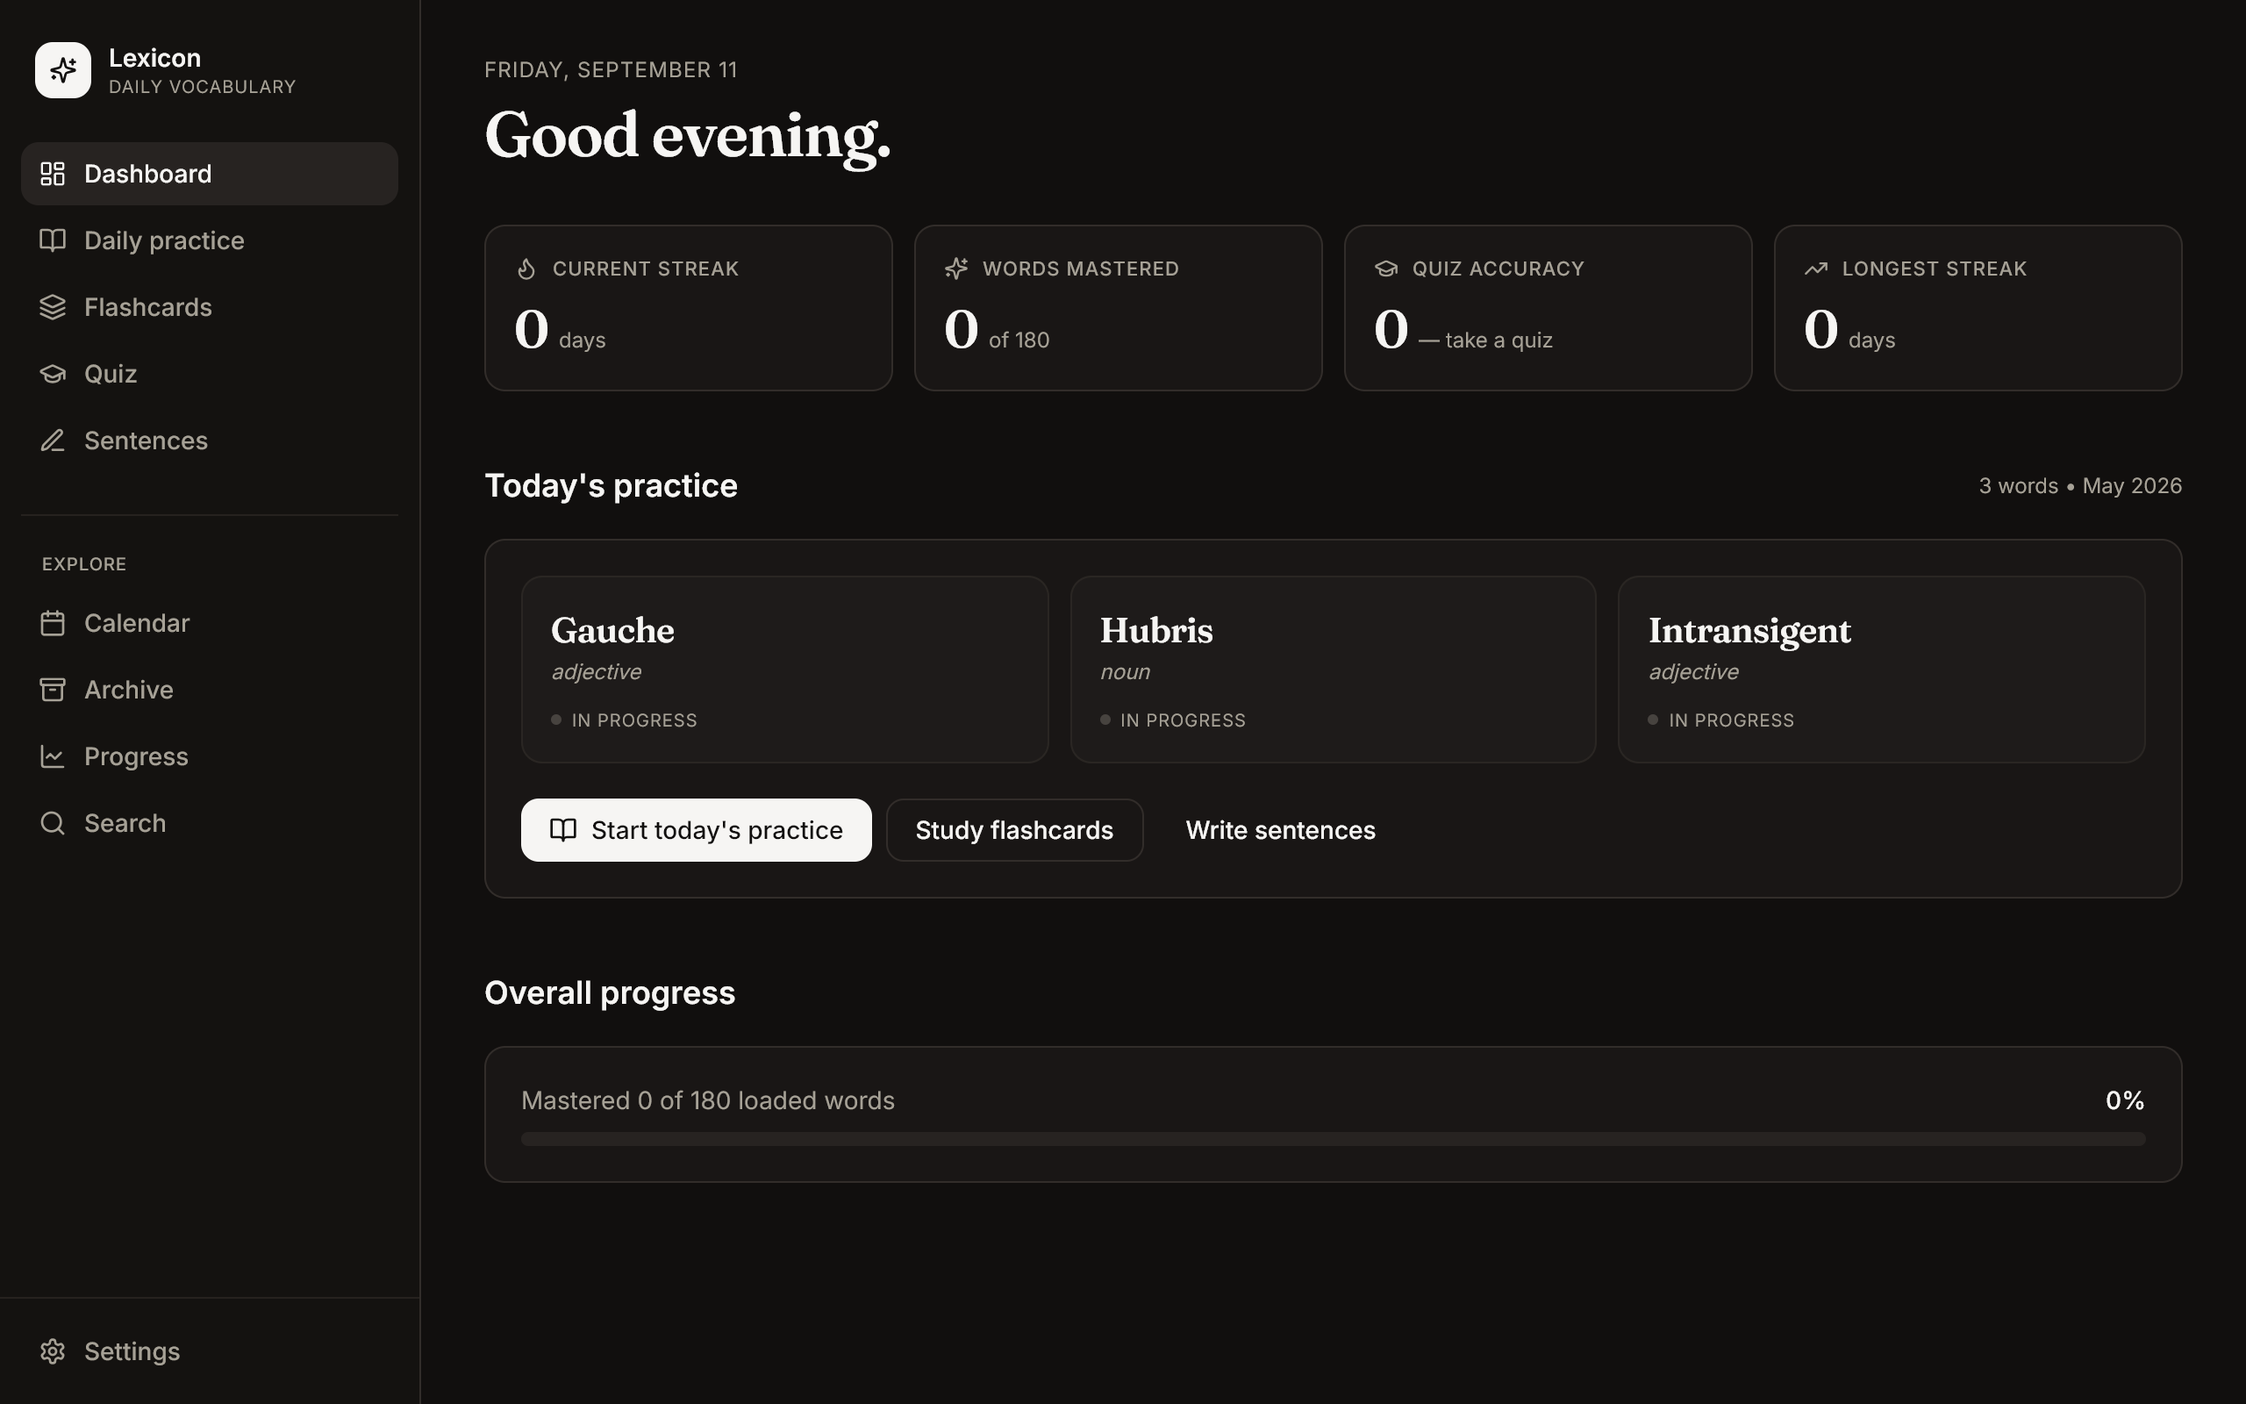
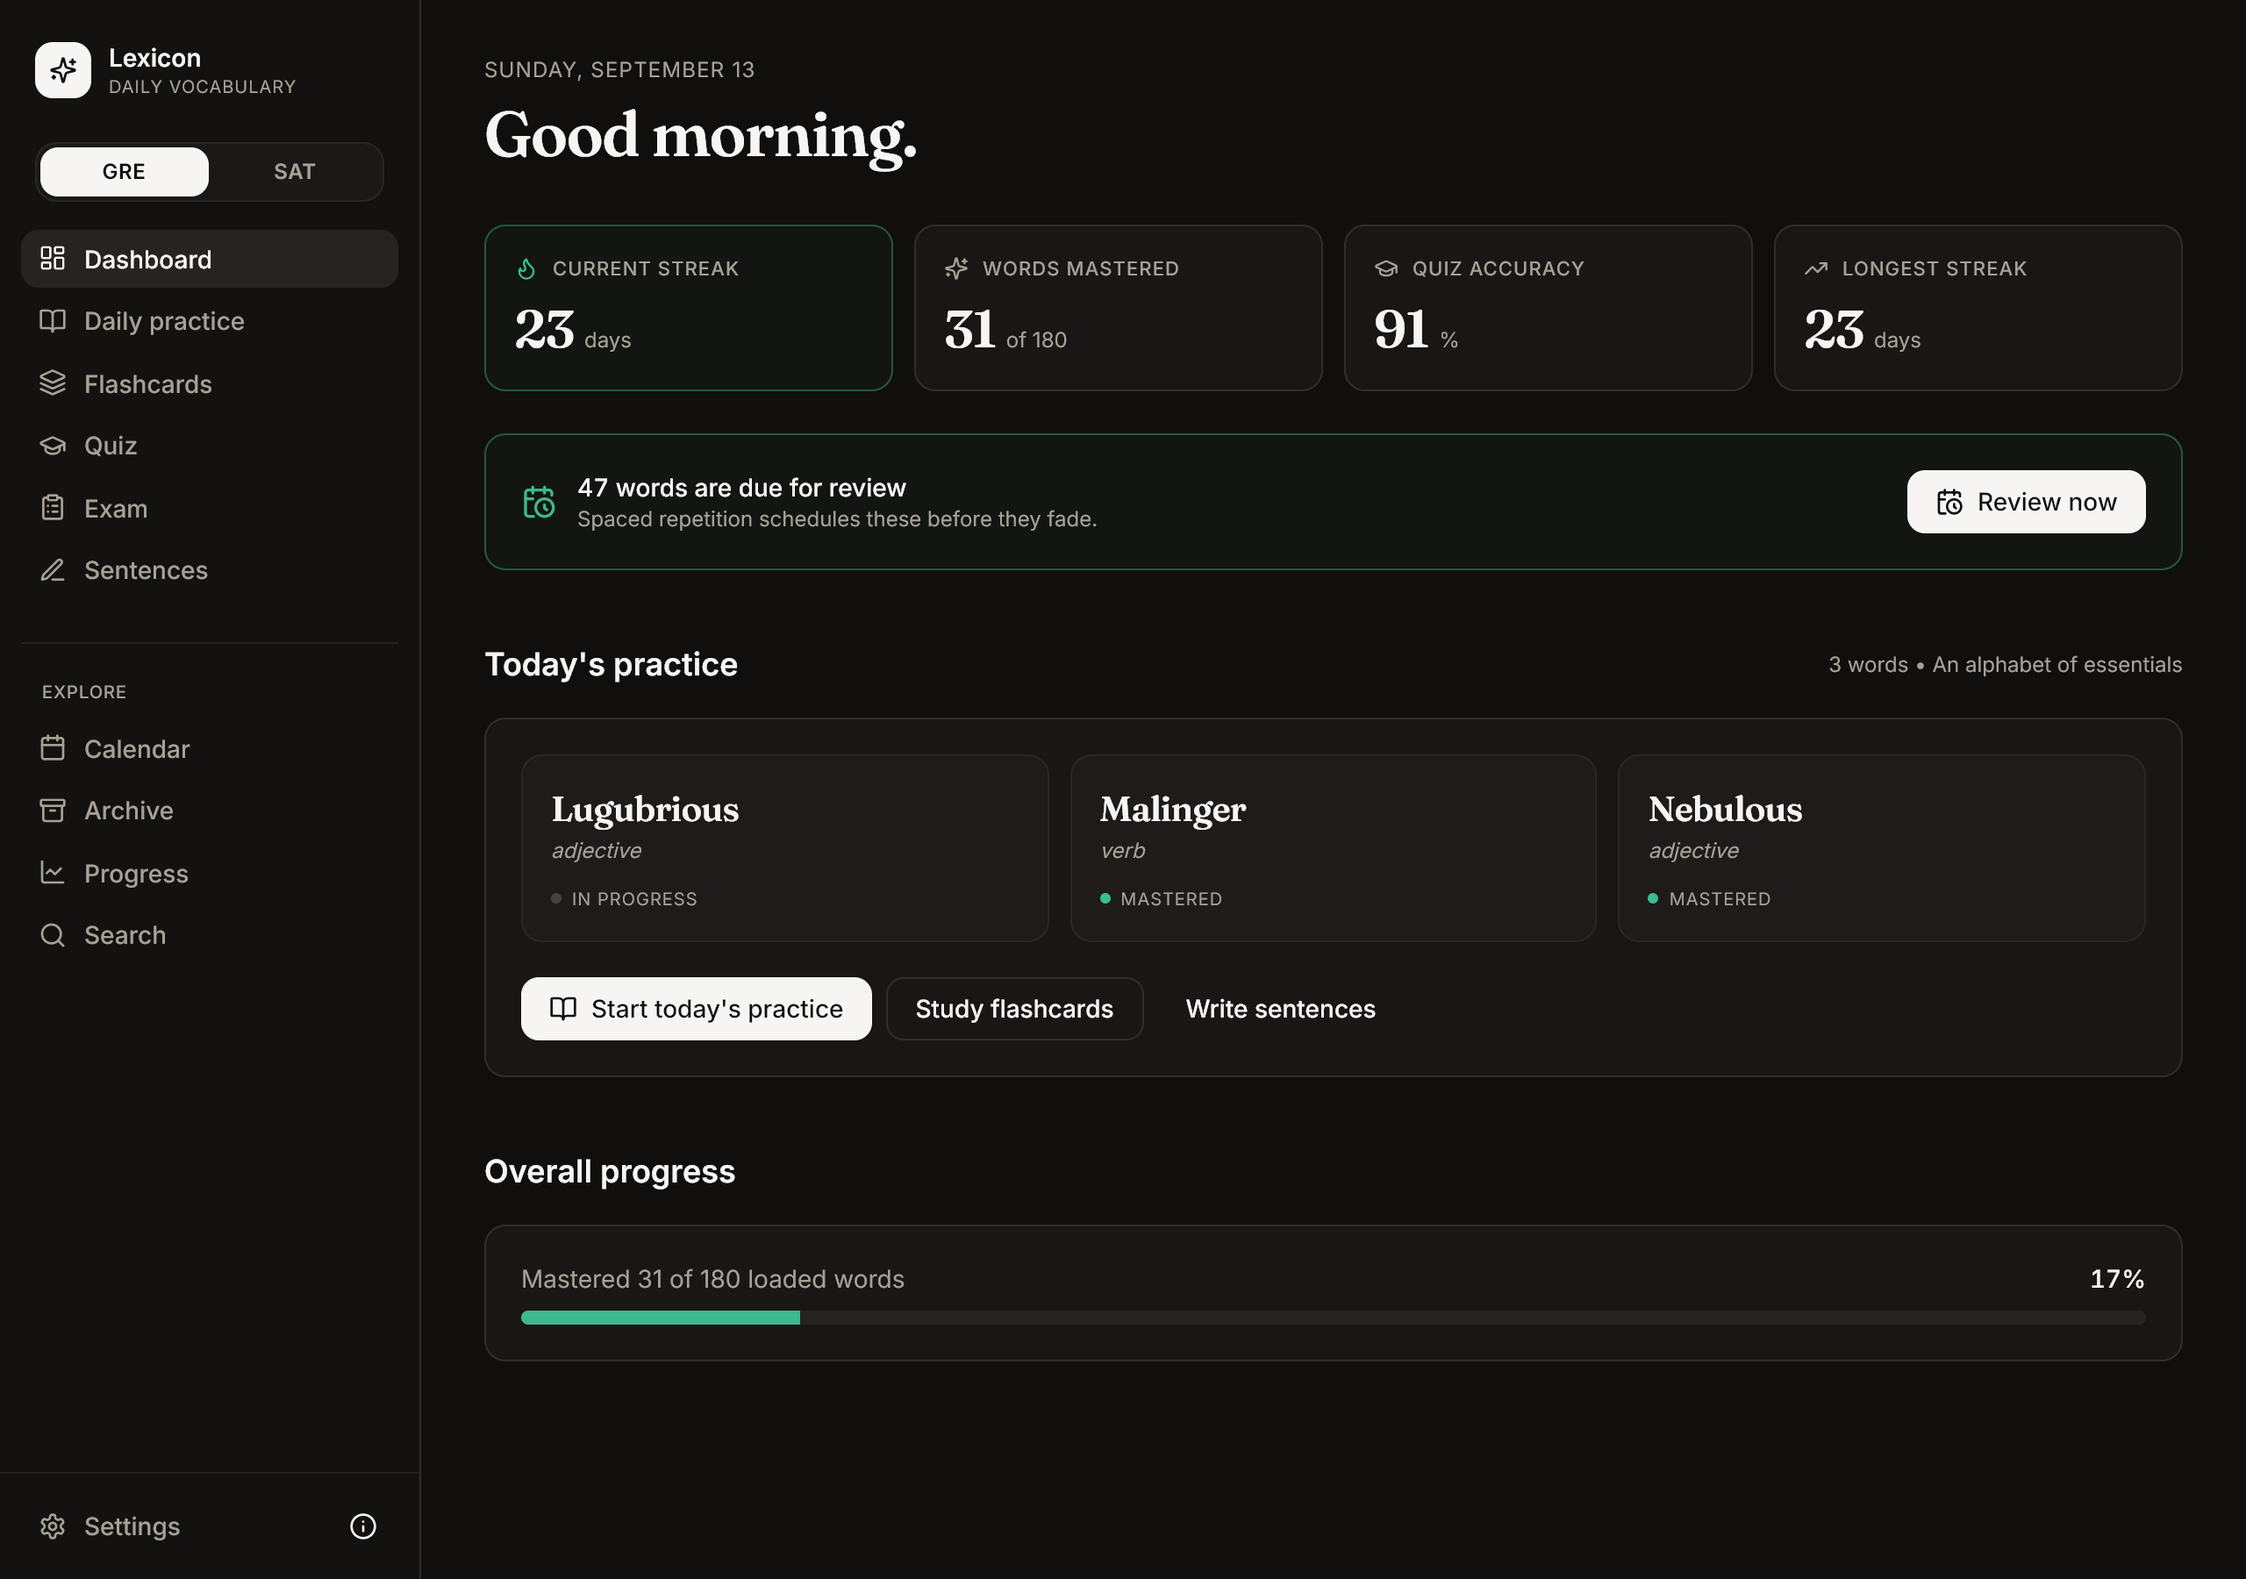
v1.1: changelog, screenshots, handoff
The README's screenshots showed an app that no longer exists — a bottom tab bar
at tablet width, where the rail has been for a phase. `screenshots.mjs` is now
committed alongside the other drivers so the pictures can be regenerated rather
than reshot by hand, and it seeds enough real progress that the dashboard has
something to say instead of four zeros.

Taking that shot found a defect the tablet audit could not: four stat cards
across at 834px is narrow enough that "Words mastered" wraps where its
neighbours do not, so that card grew taller and its number sat below the line
the other three shared. The cards are now equal height with the value pushed to
the bottom, which aligns for any label rather than for the ones that happen to
fit today. An audit checks for overflow and target size; it has no opinion
about whether a row looks level.

CONTINUING.md described a single-track app with dates in its ids. It now leads
with the three rules everything rests on, and carries the lesson that cost the
most here: a green test suite is not enough for anything that persists. The
progress store silently discarding every record passed twenty-three unit tests,
because none of them hydrate a store.

Version bumped to 1.1.0 in package.json, tauri.conf.json and Cargo.toml.

diff --git a/src/pages/Dashboard.tsx b/src/pages/Dashboard.tsx
@@ -336,18 +336,24 @@ function StatCard({
       initial={{ opacity: 0, y: 8 }}
       animate={{ opacity: 1, y: 0 }}
       transition={{ duration: 0.4, delay }}
+      // Full height, and the value pushed to the bottom. Four across on a
+      // tablet is narrow enough that "Words mastered" wraps to two lines while
+      // its neighbours do not, and without this that card grew taller and its
+      // number sat below the other three. Aligning on the bottom works for any
+      // label rather than for the ones that happen to fit today.
+      className="h-full"
     >
       <Card
         className={cn(
-          "transition-colors",
+          "h-full transition-colors",
           highlight && "border-accent/40 bg-accent/[0.03]",
         )}
       >
-        <CardContent className="p-4">
-          <div className="flex items-center gap-2 text-muted-foreground mb-2">
+        <CardContent className="p-4 flex h-full flex-col">
+          <div className="flex items-start gap-2 text-muted-foreground mb-2">
             <Icon
               className={cn(
-                "w-3.5 h-3.5",
+                "w-3.5 h-3.5 shrink-0 mt-px",
                 highlight && "text-accent",
               )}
             />
@@ -355,7 +361,7 @@ function StatCard({
               {label}
             </p>
           </div>
-          <div className="flex items-baseline gap-1.5">
+          <div className="mt-auto flex items-baseline gap-1.5">
             <p className="display-serif text-3xl font-semibold tabular">
               {value}
             </p>

diff --git a/CONTINUING.md b/CONTINUING.md
@@ -6,7 +6,7 @@ Handoff document. If you're picking this project up in a fresh Claude session (F
 
 - **Shipped features** — see [`CHANGELOG.md`](./CHANGELOG.md).
 - **What's next, with priorities** — see [`ROADMAP.md`](./ROADMAP.md). The "Next up" section at the top names the three best things to start on.
-- **How v1.0 is designed** — see [`docs/`](./docs/). Phases 6-12 have design documents and decision records; do not start one of those phases without reading its document.
+- **How it is designed** — see [`docs/`](./docs/). Every phase from 6 onward has a design document and decision records; do not start one without reading its document. For anything touching content or scheduling, that means [ADR 0011](./docs/adr/0011-tracks.md), [0012](./docs/adr/0012-ordinal-content.md) and [0013](./docs/adr/0013-cross-track-overlap.md) first.
 - **Runs** — `npm install && npm run dev` (web, :1420) or `npm run tauri:dev` (desktop, needs Rust).
 
 The rest of this file is *conventions*, not status — those go in the two files above so this one doesn't drift.
@@ -136,16 +136,37 @@ npm run tauri:build    # native installers
 
 ## Data model at a glance
 
+Three rules hold everything else up. Break any one and progress starts
+disappearing in ways that take months to notice.
+
+1. **A word id names its track and never a date.** `gre-abstemious`, not
+   `2026-04-abstemious`. Progress hangs off that id, so a word can move month
+   — reordered, reshuffled, started from a different date — and keep every
+   review. If you ever find yourself putting a position into an id, stop.
+2. **A month is a teaching position.** Keyed `gre/01`, and a per-track
+   `Schedule` maps positions onto the calendar. `src/lib/schedule.ts` is the
+   *only* place that turns a position into a date; nothing else should do
+   month arithmetic, and nothing at all should do it through `Date` (adding a
+   month to 31 January lands on 3 March).
+3. **Uniqueness is within a track, never across.** A word in both corpora is
+   not a duplicate. See ADR 0013, which also records the measured overlap.
+
 ```typescript
 VocabMonth
-  ├── month: "2026-04"
-  ├── displayName: "April 2026"
+  ├── track: "gre" | "sat"
+  ├── ordinal: 1..36          // teaching position, NOT a date
+  ├── title: "Criticism and praise"
   └── days: VocabDay[]
        ├── day: 1..31
        └── words: VocabWord[]
-            ├── id (slug, stable, used as progress key)
+            ├── id ("gre-abate" — track-scoped, used as progress key)
             ├── word, partOfSpeech, definition, example, mnemonic
             └── synonyms?, antonyms?
+
+Schedule (one per track)
+  ├── startMonth: "2027-03"   // the only calendar date in the model
+  ├── order: number[]         // teaching position → ordinal; 0 means a gap
+  └── shuffleSeed: string | null
 
 WordProgress (one per wordId)
   ├── mastered, timesReviewed, quizAttempts, quizCorrect
@@ -161,14 +182,27 @@ SentencePractice (keyed by wordId:date)
 
 ## Sanity check before commits
 
-Run these two in order:
-
 ```bash
 npm run typecheck    # must pass clean
 npm run build        # must produce dist/ without errors
+npx vitest run       # 1,127 tests
 ```
 
 If typecheck fails, don't push. Common failure: adding a Zustand action but forgetting to add it to the interface at the top of the store file.
+
+If you touched content or scheduling, also:
+
+```bash
+npx tsx scripts/audit-corpus.ts              # both tracks, must say "corpus is sound"
+CHROME_EXE="<chrome.exe>" node scripts/drive/tracks-smoke.mjs
+```
+
+**A green test suite is not enough for anything that persists.** The single
+worst bug of the v1.1 work — the progress store silently discarding every
+record because its schema version did not match — passed twenty-three unit
+tests, because none of them hydrate a store. Storage was correct and the
+running app was empty. If a change touches persistence, drive it in a browser
+and read a number off the screen.
 
 ## Known rough edges
 
@@ -176,6 +210,10 @@ If typecheck fails, don't push. Common failure: adding a Zustand action but forg
 - File System Access API only works on Chrome/Edge — Firefox / Safari fall back to file-upload only. Documented in the importer UI.
 - Recharts uses inline colors from CSS vars; some theme transitions look better with `key` remounts. Not a blocker.
 - Speech synthesis in `FlashCard.tsx` uses the browser default voice — quality varies. Consider a voice picker in Settings if this matters.
+- **The GRE and SAT corpora overlap 59%**, where ADR 0013 expected about a third. Part of that is the register genuinely converging; part is that the same model wrote both and only ever saw same-track exclusions. The lever is the generation prompt, not a dedup rule — ADR 0013 says which.
+- **Redistributing words does not undo.** The authored layout is not recoverable from the words themselves; restoring it means loading the months again from the library. The UI says so.
+- The distractors timing assertion is flaky under 41 parallel vitest workers: 531ms alone, occasionally past its 2s bound under load. It is a smoke alarm for a 3.6s freeze, not a budget.
+- **A measurement being wrong is the most likely explanation for a surprising finding.** It has happened three times here: contrast measured without compositing alpha, input names judged without looking at labels, and a word-presence check that could not match `belie` to `belied`. Each time the first instinct was to "fix" nine good colours, five good inputs, and a good card. Check the instrument first.
 
 ## If continuing with a different AI
 

diff --git a/CHANGELOG.md b/CHANGELOG.md
@@ -102,6 +102,97 @@ Format: [Keep a Changelog](https://keepachangelog.com). Versioning: [SemVer](htt
 - `SentenceBuilder` reset its draft from inside a `useMemo` with an incomplete
   dependency list; `Quiz` rebuilt a memo dependency on every render.
 
+## [1.1.0] — 2026-09-13
+
+Two exams, and content that no longer has a calendar baked into it.
+
+### Added
+
+- **GRE and SAT tracks.** Two separate vocabularies, switched from a control
+  visible on every screen at every width. Separate content, separate schedules,
+  separate progress; **one** streak, because a day studied is a day studied and
+  splitting it would punish exactly the behaviour the app should encourage.
+- **Three years of SAT vocabulary** — 2,416 words across 36 months, with its
+  own difficulty bands (core academic → argument and evidence → advanced
+  literary and scientific) and its own themes, drawn from what the test reads.
+  Both corpora now ship as defaults: 72 months, 5,241 words, fetched only when
+  asked for.
+- **A start date.** First run asks which month you begin in and lays the track
+  out from there. Both answers arrive pre-selected and Skip accepts them, so
+  the screen is one tap from done.
+- **Reordering and reshuffling.** Months can run as taught or shuffled, freely
+  and reversibly. Words can be redistributed across the months — which keeps
+  every review you have ever done, and is honest that it does not undo.
+- **Flashcard edge arrows.** 44px controls just outside the card, hidden at
+  rest and revealed on hover, focus or tap. Disabled rather than removed at the
+  ends, so the other one never moves.
+- **A navigation rail** between the phone tab bar and the desktop sidebar, from
+  720px to 1024px, carrying all ten destinations with labels.
+- **An app icon**, drawn as SVG and rasterised for every desktop, iOS and
+  Android size.
+- `scripts/rebalance-corpus.ts`, and browser drivers for tracks, the schedule,
+  flashcard navigation, tablets and the README screenshots.
+
+### Changed
+
+- **Word ids no longer contain a date.** `gre-abstemious`, not
+  `2026-04-abstemious`. This is the change everything else rests on: an id that
+  names a month changes whenever the word moves, and moving words is exactly
+  what start dates and reshuffling do.
+- **Months are teaching positions, not dates** — keyed `gre/01` … `gre/36`,
+  with a per-track schedule mapping them onto the calendar. Two users starting
+  a year apart share the corpus files byte for byte.
+- **Swiping a flashcard now navigates instead of rating it.** It used to write
+  "again" on a drag left and "good" on a drag right at a fixed 120px, so on a
+  360px phone a 121-pixel drag recorded a permanent judgement with nothing on
+  screen to say what had been recorded. Rating keeps its four buttons and the
+  keys `1`–`4`.
+- **Small and tablet screens are fullscreen** — full-bleed content below `lg`,
+  `100dvh` so a phone's address bar stops covering the last rows, and
+  `viewport-fit=cover` with safe areas on all four edges. Reading pages still
+  cap their line length at every width.
+- The shell breakpoint moved from Tailwind's `md` (768px) to a named `rail`
+  breakpoint at **720px**, chosen because the iPad mini is 744px wide: the
+  default left the smallest iPad on the phone layout.
+- Vocabulary files carry `track`, `ordinal` and `title` instead of `month` and
+  `displayName`. Files in the old shape still import.
+- `generate-corpus.ts`, `repair-corpus.ts` and `audit-corpus.ts` all take a
+  track. Uniqueness is enforced within a track and deliberately not across
+  them; the audit reports the overlap (59%) as information.
+
+### Fixed
+
+- **The dashboard and progress page counted every progress record, not the
+  open track's.** Switching to an empty SAT showed a user their GRE mastery
+  under an SAT heading.
+- **The progress store had no schema version**, so once the migration stamped
+  one on its blob, zustand decided the data came from a future it could not
+  read and discarded every record. Storage was correct and the running app was
+  empty. Twenty-three unit tests missed it because none of them hydrate a
+  store; a browser caught it on the first run.
+- Both copies of the track switcher shared one Framer `layoutId`, so the active
+  pill animated into whichever copy was `display: none`.
+- `containsWord` reported `belie` as missing from "Her calm voice belied the
+  panic" — the stemmer maps `belied` to `bely` and `belie` to `beli`, which
+  differ in the last character, so no shared-prefix test could bridge them.
+  The whole `-ie/-ied` family was affected.
+- Four-across stat cards on a tablet: "Words mastered" wraps where its
+  neighbours do not, which made that card taller and left its number off the
+  line the other three sat on.
+
+### Migration
+
+Existing installs migrate on first launch, before any store hydrates — the id
+map is built from the vocabulary and needed by progress, and zustand hydrates
+stores in no defined order. It is idempotent and fails closed: any error leaves
+every blob exactly as it was.
+
+The acceptance test, asserted in unit tests and again in a browser: **a store
+taken before the migration, read after it, shows the same words on the same
+days with the same progress.** Including for a user whose months had gaps —
+April and September with nothing between — where the schedule holds the empty
+positions open rather than sliding September into May.
+
 ## [0.1.0] — 2026-09-09
 
 Initial release.
